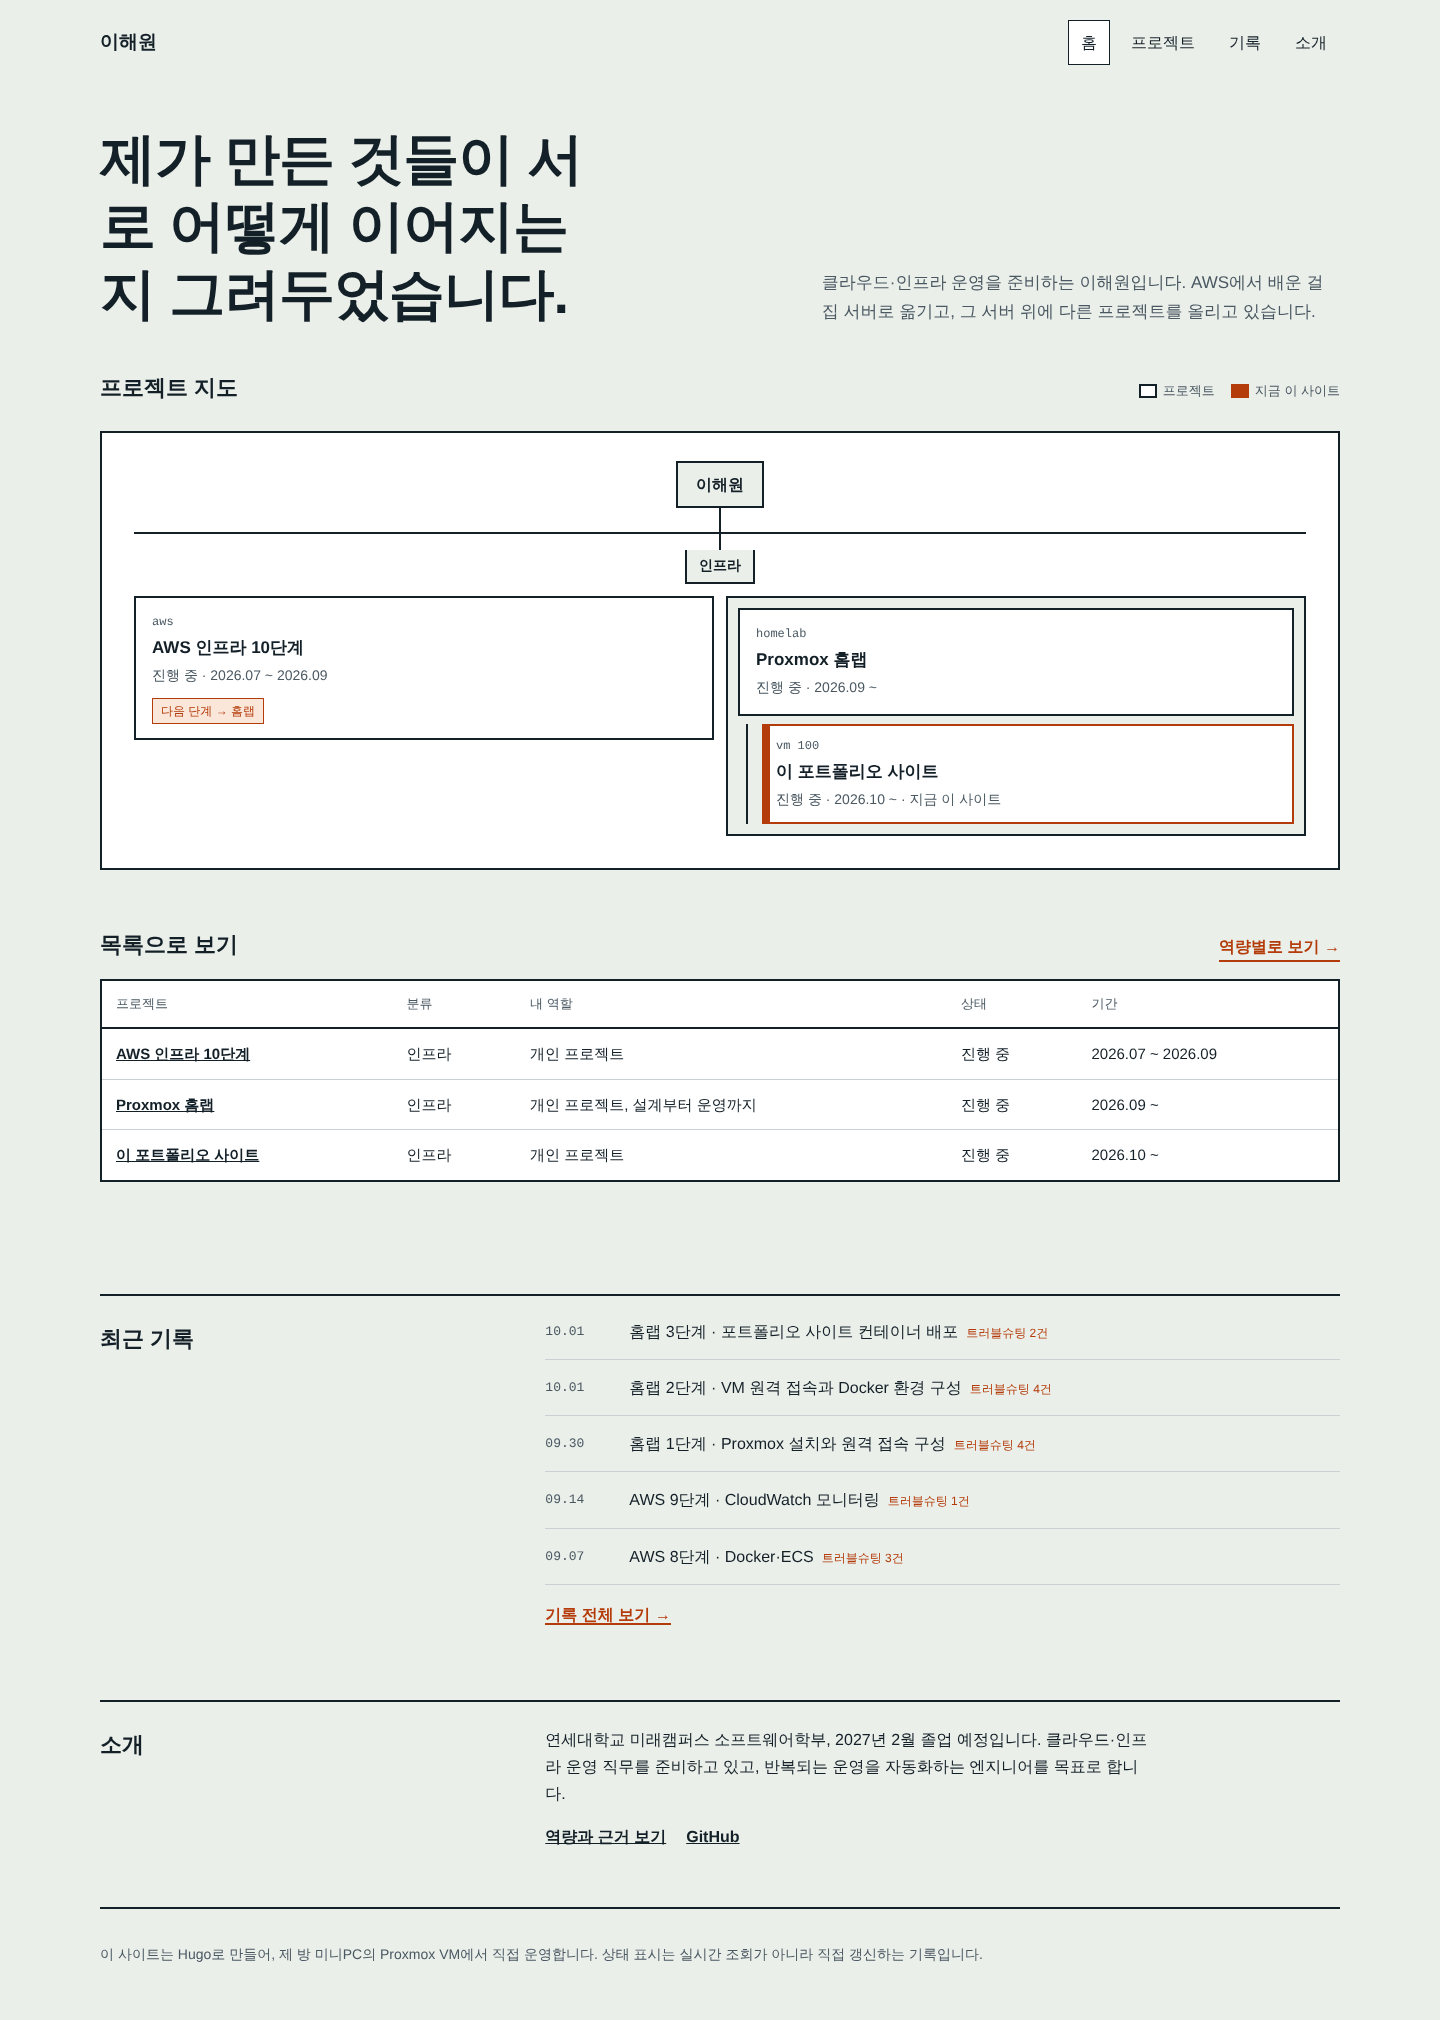
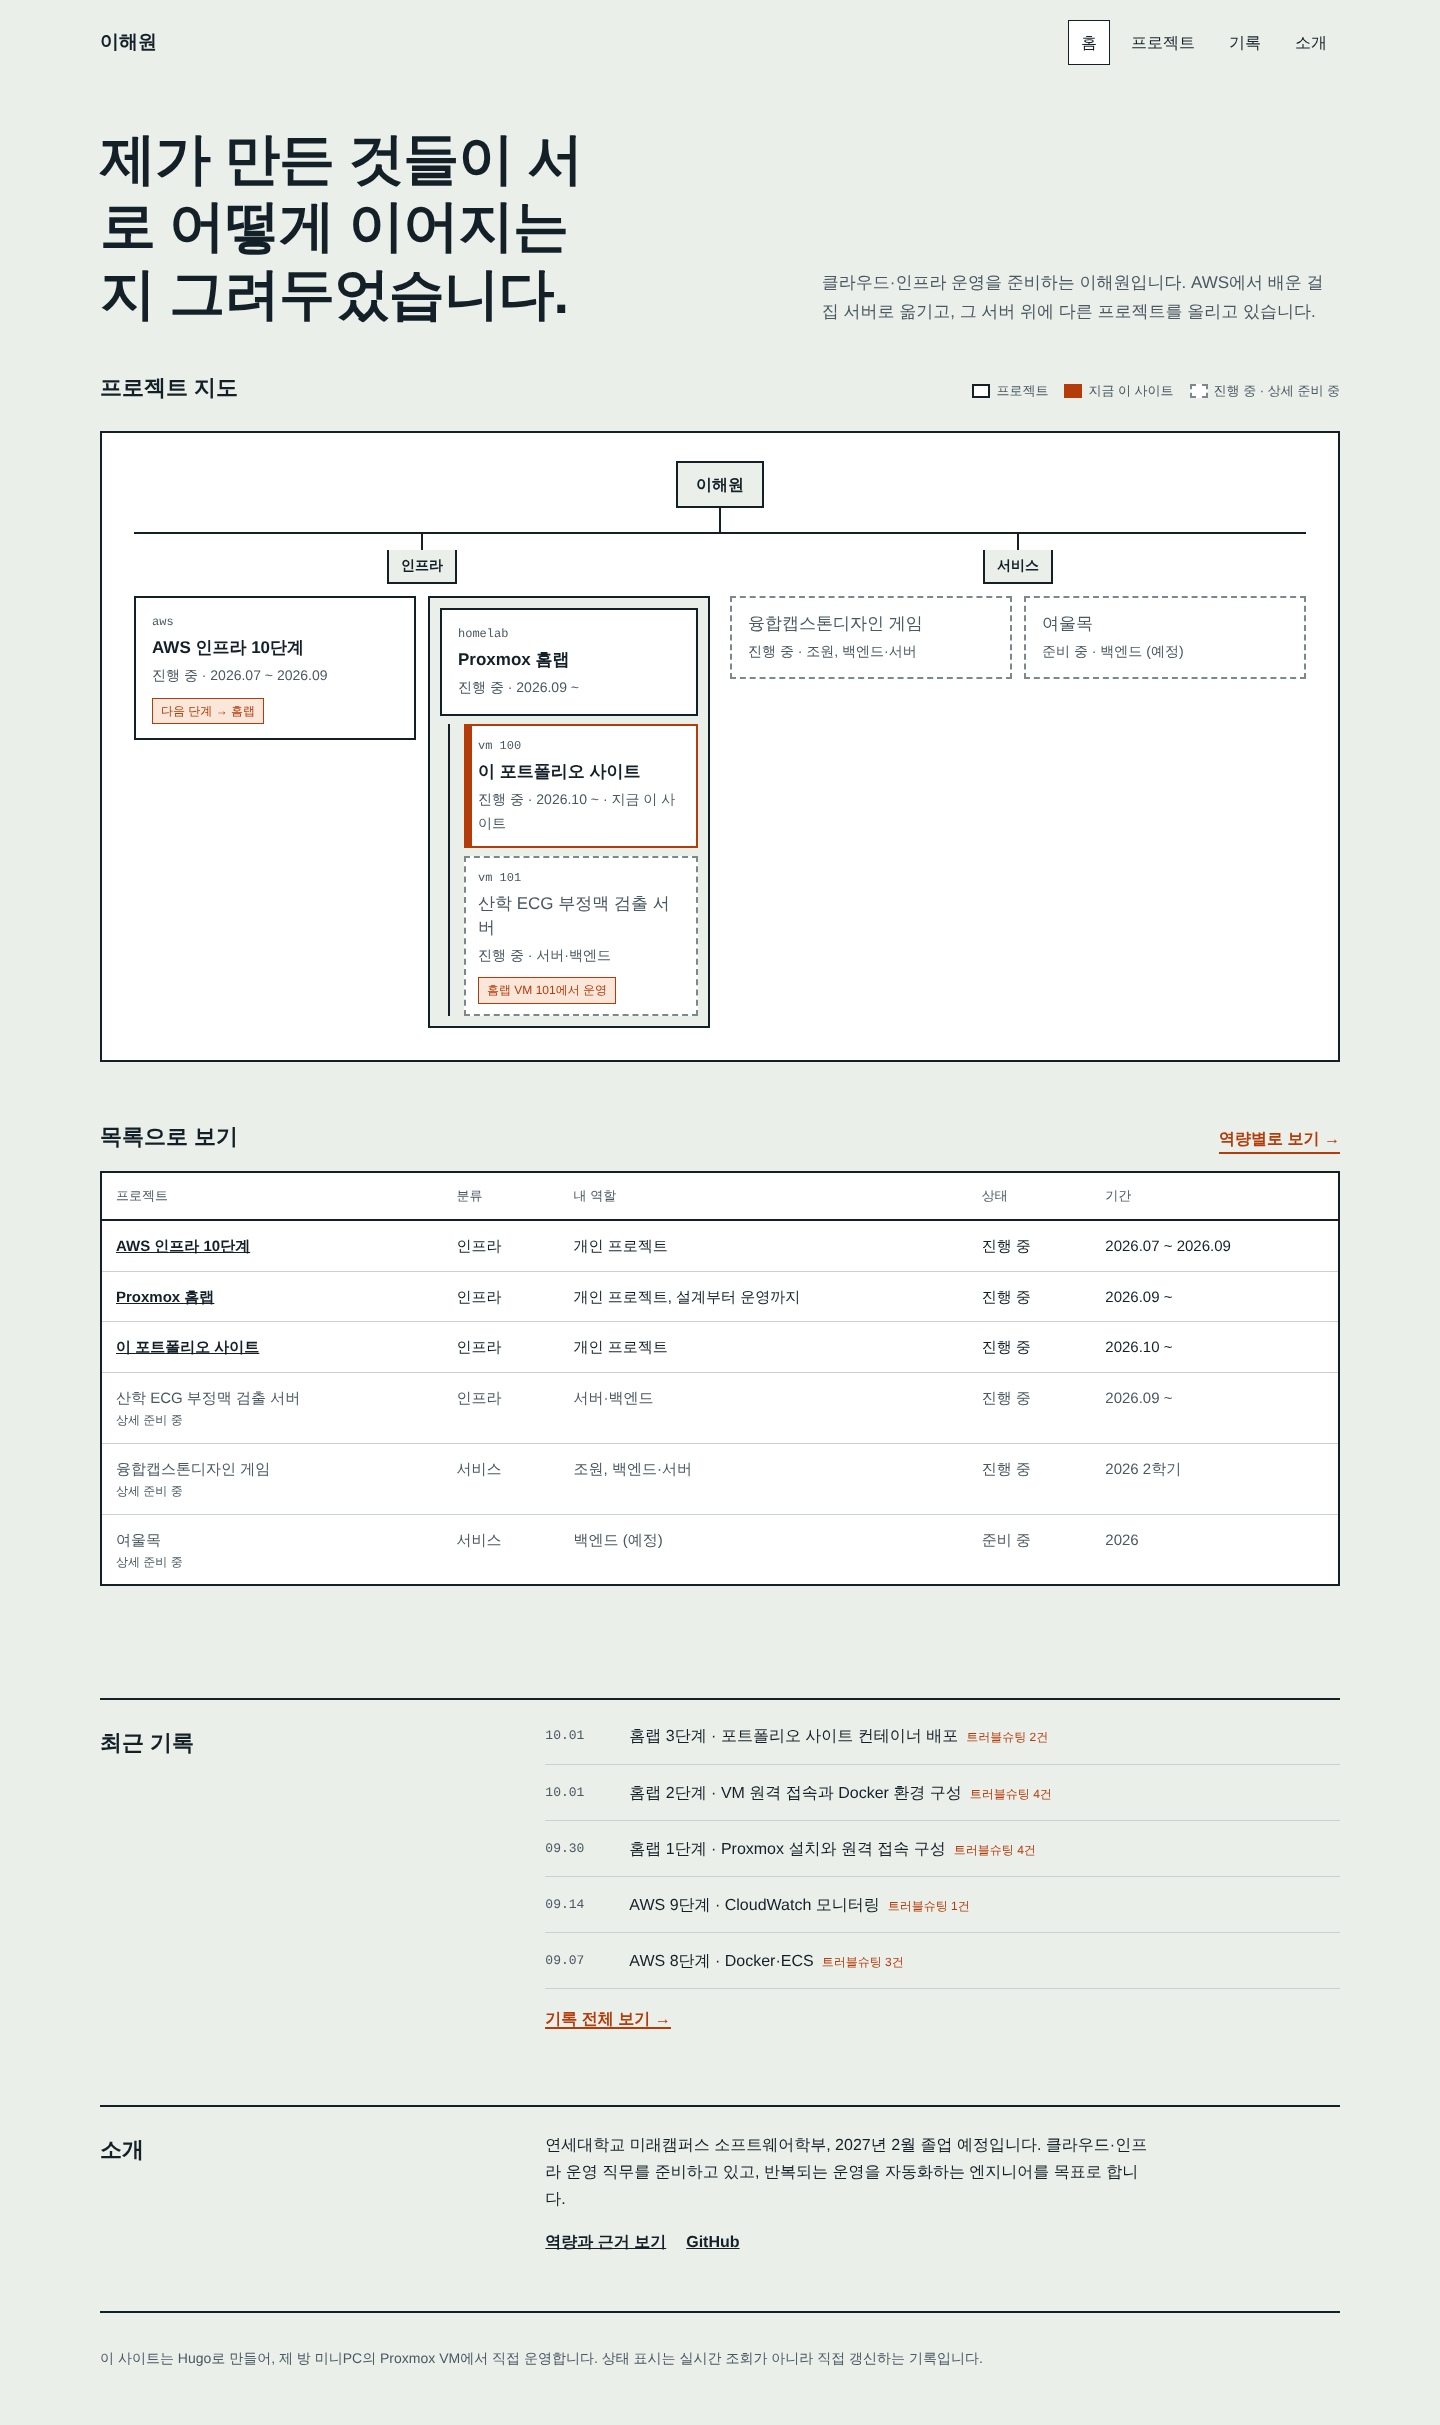
진행 중 프로젝트 3개를 지도에 점선 칸으로 표시, RSS에서 제외

diff --git a/layouts/_partials/node.html b/layouts/_partials/node.html
@@ -1,7 +1,16 @@
 {{- $p := . -}}
+{{- if $p.Params.preview -}}
+<div class="node draft">
+  {{ with $p.Params.mapLabel }}<span class="id">{{ . }}</span>{{ end }}
+  <h4>{{ $p.Title }}</h4>
+  <p>{{ $p.Params.status }} · {{ $p.Params.role }}</p>
+  {{ with $p.Params.relations }}<div class="rel">{{ range . }}<span>{{ . }}</span>{{ end }}</div>{{ end }}
+</div>
+{{- else -}}
 <a class="node{{ if $p.Params.here }} here{{ end }}" href="{{ $p.RelPermalink }}">
   {{ with $p.Params.mapLabel }}<span class="id">{{ . }}</span>{{ end }}
   <h4>{{ $p.Title }}</h4>
   <p>{{ $p.Params.status }}{{ with $p.Params.period }} · {{ . }}{{ end }}{{ if $p.Params.here }} · 지금 이 사이트{{ end }}</p>
   {{ with $p.Params.relations }}<div class="rel">{{ range . }}<span>{{ . }}</span>{{ end }}</div>{{ end }}
 </a>
+{{- end -}}

diff --git a/layouts/_partials/project-table.html b/layouts/_partials/project-table.html
@@ -4,7 +4,7 @@
   <thead><tr><th scope="col">프로젝트</th><th scope="col">분류</th><th scope="col">내 역할</th><th scope="col">상태</th><th scope="col">기간</th></tr></thead>
   <tbody>
   {{ range $projects.ByWeight }}
-    <tr><td><a href="{{ .RelPermalink }}">{{ .Title }}</a></td><td>{{ .Params.category }}</td><td>{{ .Params.role }}</td><td>{{ .Params.status }}</td><td>{{ .Params.period }}</td></tr>
+    <tr{{ if .Params.preview }} class="pre"{{ end }}><td>{{ if .Params.preview }}{{ .Title }}<small>상세 준비 중</small>{{ else }}<a href="{{ .RelPermalink }}">{{ .Title }}</a>{{ end }}</td><td>{{ .Params.category }}</td><td>{{ .Params.role }}</td><td>{{ .Params.status }}</td><td>{{ .Params.period }}</td></tr>
   {{ end }}
   </tbody>
 </table>

diff --git a/layouts/notes/list.html b/layouts/notes/list.html
@@ -7,7 +7,7 @@
 </section>
 <div class="stat-row" style="margin-bottom:32px"><div><b>{{ len $notes }}</b><span>기록</span></div><div><b>{{ $ts }}</b><span>트러블슈팅 사례</span></div></div>
 <div class="note-groups">
-{{ $projects := where (where site.RegularPages "Section" "projects") "Draft" false }}
+{{ $projects := where (where (where site.RegularPages "Section" "projects") "Draft" false) "Params.preview" "!=" true }}
 {{ range $projects.ByWeight }}
   {{ $p := . }}
   {{ $slug := partial "slug.html" . }}

diff --git a/layouts/about.html b/layouts/about.html
@@ -1,7 +1,7 @@
 {{ define "main" }}
 {{ $notes := where site.RegularPages "Section" "notes" }}
 {{ $ts := 0 }}{{ range $notes }}{{ with .Params.troubleshooting }}{{ $ts = add $ts (len .) }}{{ end }}{{ end }}
-{{ $projects := where (where site.RegularPages "Section" "projects") "Draft" false }}
+{{ $projects := where (where (where site.RegularPages "Section" "projects") "Draft" false) "Params.preview" "!=" true }}
 <section class="intro">
   <h1>{{ .Title }}</h1>
   <p>{{ .Params.intro }}</p>

diff --git a/layouts/projects/list.html b/layouts/projects/list.html
@@ -5,7 +5,7 @@
 </section>
 <section aria-labelledby="h-map">
   <div class="sec-head"><h2 id="h-map">지도</h2>
-    <p class="legend"><span>프로젝트</span><span class="l-here">지금 이 사이트</span></p></div>
+    <p class="legend"><span>프로젝트</span><span class="l-here">지금 이 사이트</span><span class="l-draft">진행 중 · 상세 준비 중</span></p></div>
   {{ partial "map.html" . }}
 </section>
 <section class="list" aria-labelledby="h-list">

diff --git a/layouts/home.html b/layouts/home.html
@@ -6,7 +6,7 @@
 
 <section aria-labelledby="h-map">
   <div class="sec-head"><h2 id="h-map">프로젝트 지도</h2>
-    <p class="legend"><span>프로젝트</span><span class="l-here">지금 이 사이트</span></p></div>
+    <p class="legend"><span>프로젝트</span><span class="l-here">지금 이 사이트</span><span class="l-draft">진행 중 · 상세 준비 중</span></p></div>
   {{ partial "map.html" . }}
 </section>
 

diff --git a/assets/css/extended/site.css b/assets/css/extended/site.css
@@ -228,3 +228,5 @@ details[open]>summary .hint::after{content:"접기"}details:not([open])>summary 
   .pager .next{grid-column:1}
 }
 @media (prefers-reduced-motion:reduce){*{scroll-behavior:auto!important;transition:none!important}}
+.list tr.pre td{color:var(--muted)}
+.list tr.pre small{display:block;font-size:12px}

diff --git a/content/projects/sanhak-ecg/index.md b/content/projects/sanhak-ecg/index.md
@@ -1,16 +1,19 @@
 ---
 title: "산학 ECG 부정맥 검출 서버"
-summary: "산학 프로젝트의 서버·백엔드 담당. 기업 비공개 내용은 게시하지 않음."
+summary: "산학 프로젝트에서 서버·백엔드를 맡고 있습니다. 홈랩 VM 101에서 팀 개발 서버를 운영합니다."
 role: "서버·백엔드"
 status: "진행 중"
 category: "인프라"
 stack: []
-featured: false
-weight: 10
+period: "2026.09 ~"
+weight: 20
 runsOn: "homelab"
 mapLabel: "vm 101"
-draft: true
+preview: true          # 지도·목록에 점선 칸으로만 표시. 상세 페이지는 만들지 않음
+build:
+  render: never
+  list: always
+draft: false
 ---
 
-<!-- 내부 초안. 확인된 사실만 채운 뒤 draft: false 로 공개 -->
-[작성 필요]
+<!-- 내용이 생기면 preview·build 줄을 지우고 상세 섹션(개요/내 역할/시스템 구조/…)을 채워 공개 -->

diff --git a/content/projects/yeoulmok/index.md b/content/projects/yeoulmok/index.md
@@ -1,15 +1,18 @@
 ---
 title: "여울목"
-summary: "물 위험 알림 서비스 구상. 공모전 제출, 이후 결과 미확인."
-role: "[작성 필요]"
-status: "구상"
+summary: "물 위험 알림 서비스. 공모전 출품작으로 준비 중이고, 백엔드를 맡을 예정입니다."
+role: "백엔드 (예정)"
+status: "준비 중"
 category: "서비스"
 stack: []
-featured: false
-weight: 10
+period: "2026"
+weight: 22
 
-draft: true
+preview: true          # 지도·목록에 점선 칸으로만 표시. 상세 페이지는 만들지 않음
+build:
+  render: never
+  list: always
+draft: false
 ---
 
-<!-- 내부 초안. 확인된 사실만 채운 뒤 draft: false 로 공개 -->
-[작성 필요]
+<!-- 내용이 생기면 preview·build 줄을 지우고 상세 섹션(개요/내 역할/시스템 구조/…)을 채워 공개 -->

diff --git a/content/projects/capstone-game/index.md b/content/projects/capstone-game/index.md
@@ -1,15 +1,18 @@
 ---
 title: "융합캡스톤디자인 게임"
-summary: "팀 게임 프로젝트. 조원으로 백엔드·서버 담당."
+summary: "팀 게임 프로젝트에서 조원으로 백엔드·서버를 맡고 있습니다."
 role: "조원, 백엔드·서버"
 status: "진행 중"
 category: "서비스"
 stack: []
-featured: false
-weight: 10
+period: "2026 2학기"
+weight: 21
 
-draft: true
+preview: true          # 지도·목록에 점선 칸으로만 표시. 상세 페이지는 만들지 않음
+build:
+  render: never
+  list: always
+draft: false
 ---
 
-<!-- 내부 초안. 확인된 사실만 채운 뒤 draft: false 로 공개 -->
-[작성 필요]
+<!-- 내용이 생기면 preview·build 줄을 지우고 상세 섹션(개요/내 역할/시스템 구조/…)을 채워 공개 -->

diff --git a/content/projects/startup-contest/index.md b/content/projects/startup-contest/index.md
@@ -1,6 +1,6 @@
 ---
-title: "미용실 AI 사전상담"
-summary: "미용실 방문 전 AI 상담과 미용사용 요약 아이디어. 모두의 창업 제출, 선정·구현 미확인."
+title: "모두의 창업"
+summary: "모두의 창업 출품 준비. 주제 미정."
 role: "[작성 필요]"
 status: "구상"
 category: "서비스"

diff --git a/content/projects/web-project/index.md b/content/projects/web-project/index.md
@@ -1,0 +1,13 @@
+---
+title: "웹 프로젝트"
+summary: "주제 미정. 백엔드 담당."
+role: "백엔드"
+status: "구상"
+category: "서비스"
+stack: []
+featured: false
+weight: 30
+draft: true
+---
+
+<!-- 주제가 정해지면 preview 방식으로 지도에 올림 -->
